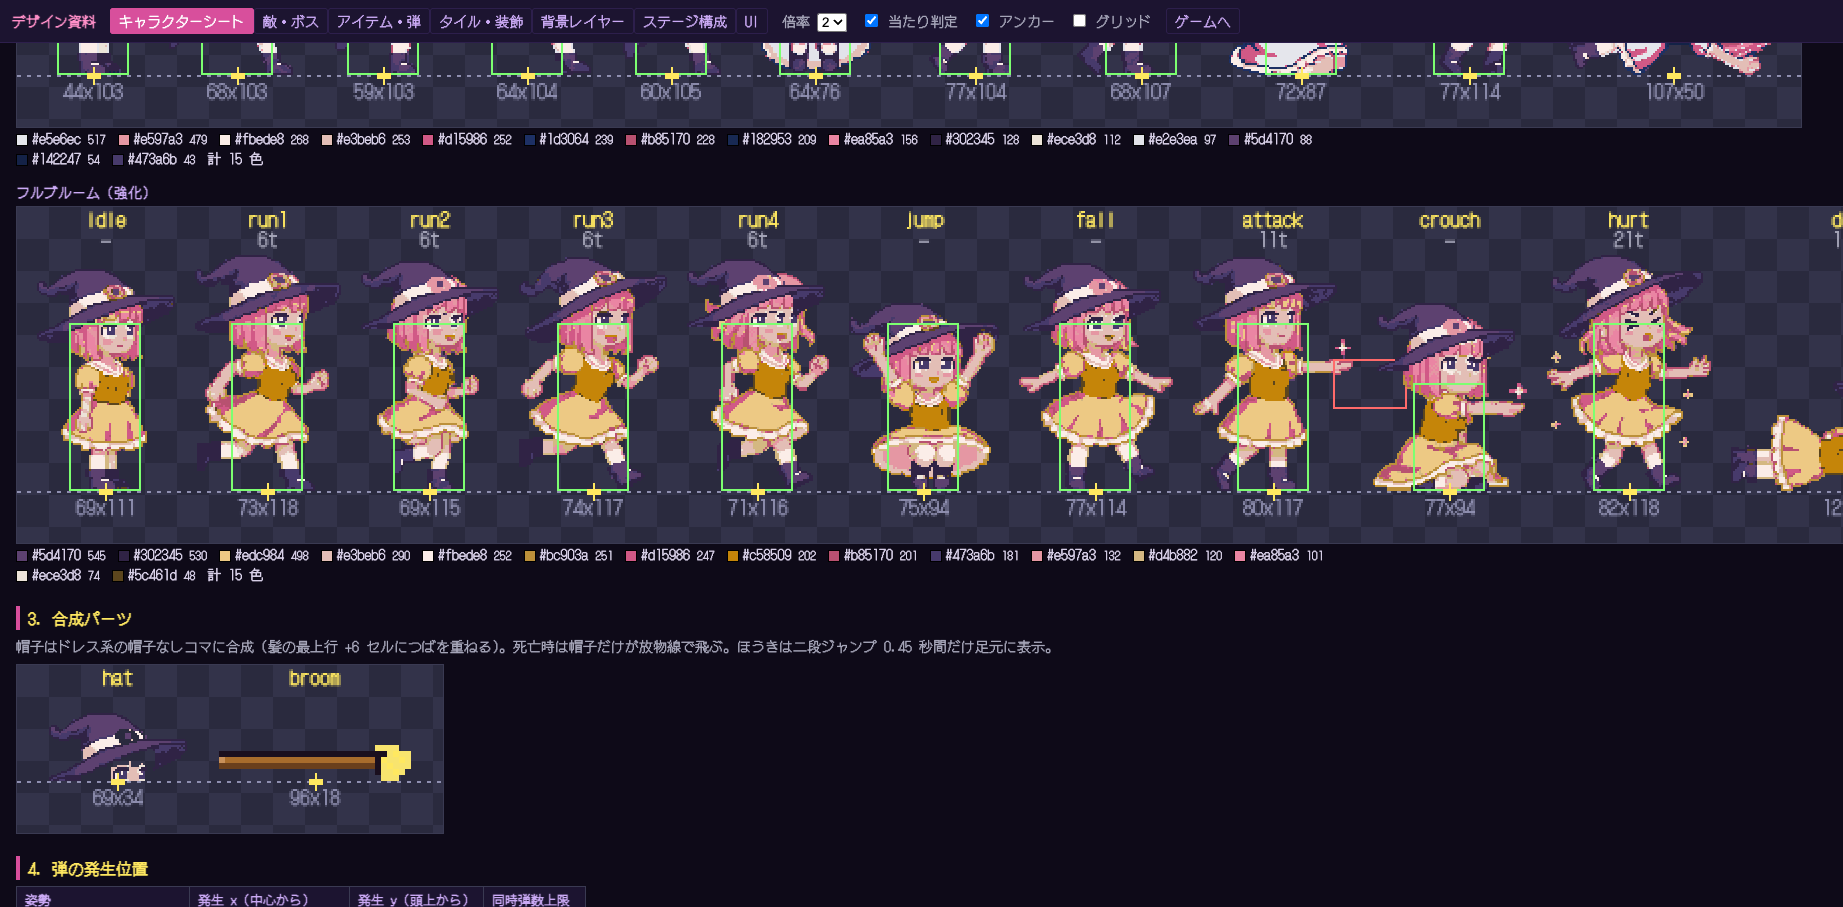
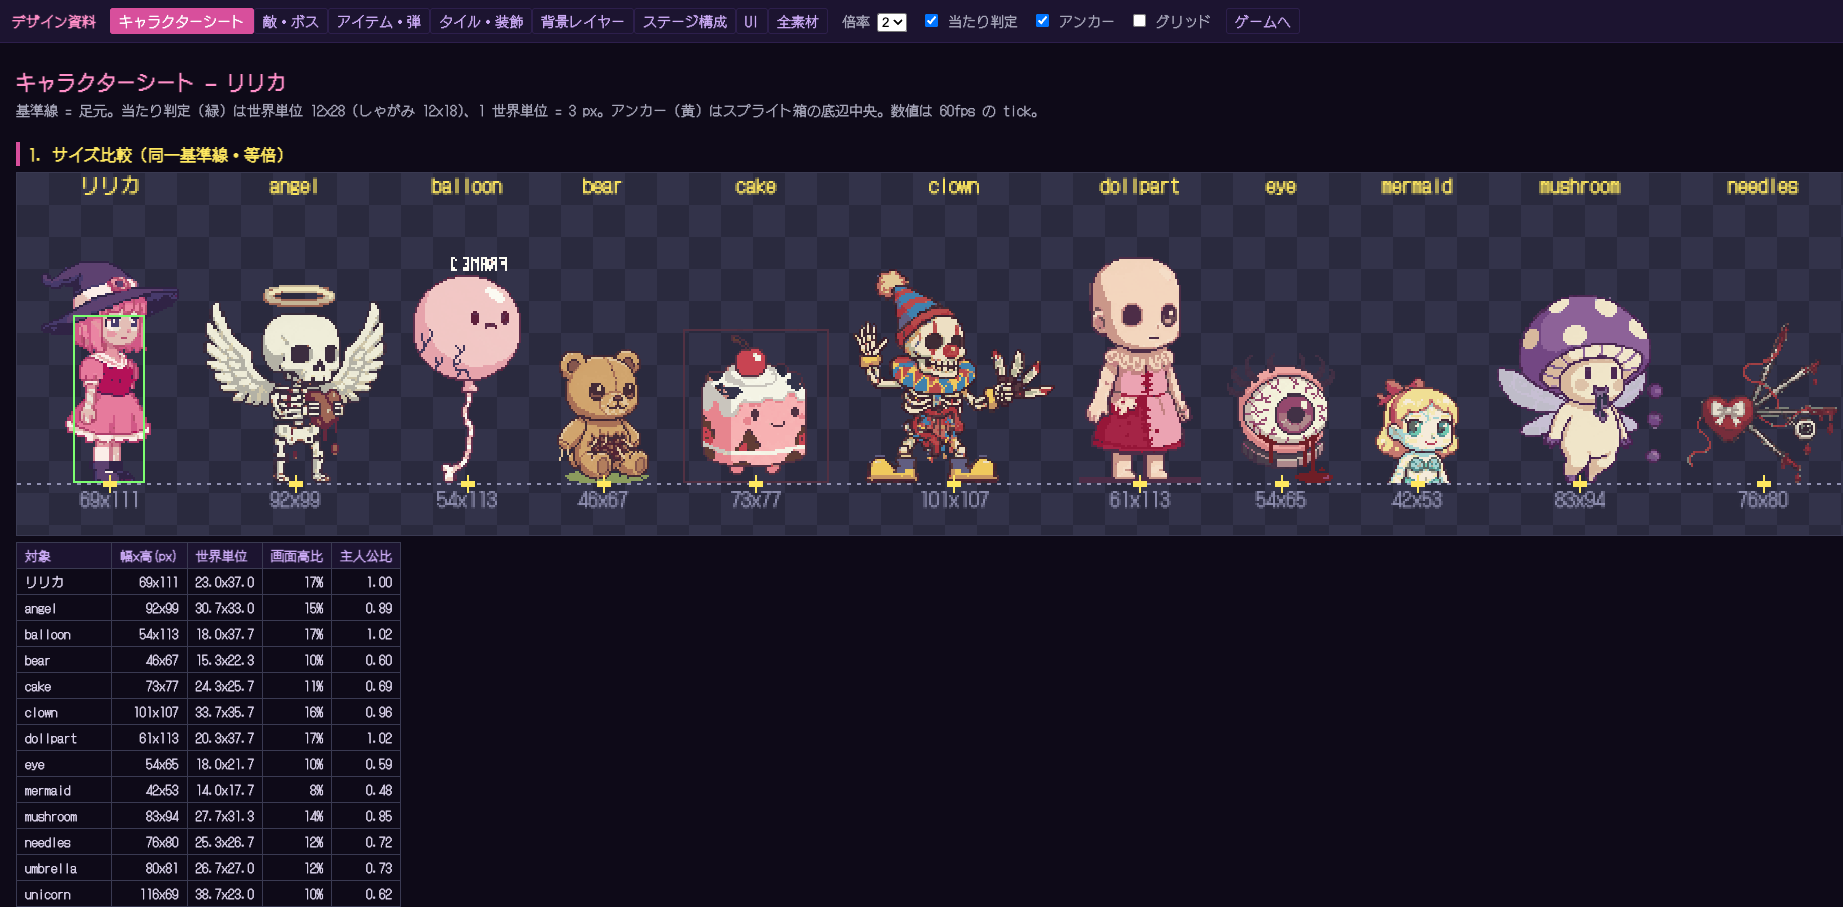
feat(catalog): manifest-driven completeness — size comparison lists every enemy/boss, deco table from shared DECO_MAP, gimmick sprite section, new '全素材' sheet; test/catalog.test.js (4) detects missing rows. Backlog IMP-016

diff --git a/src/catalog/pages/tiles.js b/src/catalog/pages/tiles.js
@@ -3,6 +3,7 @@ import { h1, h2, h3, note, table, canvas, drawRaw, rawSize, state } from '../she
 import { sliceTileStrip, renderMapLayerHD, TILE_BANDS, buildBogHD, buildSpikeHD } from '../../gfx/hdworld.js';
 import { THEMES } from '../../gfx/tiles.js';
 import { TileMap } from '../../physics.js';
+import { DECO_MAP } from '../../decomap.js';
 
 const SAMPLE = ['..........', '..===.....', '..........', '###....###', '###~~^^###', '###~~^^###'];
 
@@ -39,7 +40,17 @@ export async function render(main, A) {
   let x = 12; const base = dc.height - 20; dg.strokeStyle = '#8f8fb0'; dg.setLineDash([2, 3]); dg.beginPath(); dg.moveTo(0, base + 0.5); dg.lineTo(dc.width, base + 0.5); dg.stroke(); dg.setLineDash([]);
   for (const n of names) { const [w, h] = rawSize(D[n]); const cell = Math.max(w, 56); drawRaw(dg, D[n], x + (cell - w) / 2, base - h); if (state.anchor) { dg.fillStyle = '#ffe860'; dg.fillRect(x + cell / 2 - 3, base - 1, 7, 3); } dg.fillStyle = '#ffe860'; dg.font = '10px DotGothic16'; dg.textAlign = 'center'; dg.fillText(n, x + cell / 2, 10); dg.fillStyle = '#8f8fb0'; dg.fillText(`${w}x${h}`, x + cell / 2, base + 14); x += cell + 12; }
   main.appendChild(dc);
-  main.appendChild(table(['記号', '墓地', '菓子の森', '城'], [
-    ['t', 'tomb', 'tomb', 'banner'], ['c', 'cross', 'cross', '-'], ['f', 'flowers', 'flowers', '-'], ['v', 'candle', 'candle', 'candelabra'], ['y', 'tree', 'tree', '-'], ['x', 'blood', 'blood', 'blood'], ['o', 'bones', 'bones', 'bones'], ['k', '-', 'lollipop', '-'], ['n', '-', '-', 'pillar'], ['w', '-', '-', 'window'],
-  ]));
+  // 記号 → 装飾（テーマ別、src/decomap.js と同じ定義）
+  const themes = Object.keys(DECO_MAP), syms = [...new Set(themes.flatMap(t => Object.keys(DECO_MAP[t])))].sort();
+  main.appendChild(table(['記号', ...themes], syms.map(sy => [sy, ...themes.map(t => DECO_MAP[t][sy] ?? '-')])));
+  // ギミック小物（tiles/ 配下でテーマ名でないもの）
+  const gim = Object.keys(gen.tiles ?? {}).filter(k => !THEMES[k]).sort();
+  if (gim.length) {
+    main.appendChild(h2('ギミック小物（生成。World.drawGimmicks が使う）'));
+    main.appendChild(note('ladder: はしご L（縦にテクスチャ繰り返し） / island: 浮島 @ / plank: 崩れる板 ! / press: プレス機 %（判定は絵の寸法） / belt: ベルト ) ( / gear: 装飾 / cart: ジェットコースター R / gondola・hub: 観覧車 O'));
+    const gc = canvas(gim.reduce((a, n) => a + Math.max(rawSize(gen.tiles[n])[0], 56) + 12, 12), Math.max(...gim.map(n => rawSize(gen.tiles[n])[1])) + 40); const gg = gc.getContext('2d');
+    let gx = 12; const gbase = gc.height - 20;
+    for (const n of gim) { const [w, h] = rawSize(gen.tiles[n]); const cell = Math.max(w, 56); drawRaw(gg, gen.tiles[n], gx + (cell - w) / 2, gbase - h); gg.fillStyle = '#ffe860'; gg.font = '10px DotGothic16'; gg.textAlign = 'center'; gg.fillText(`${n} ${w}x${h}`, gx + cell / 2, gbase + 14); gx += cell + 12; }
+    main.appendChild(gc);
+  }
 }

diff --git a/test/catalog.test.js b/test/catalog.test.js
@@ -1,0 +1,36 @@
+import { test, expect } from 'vitest';
+import manifest from '../src/gfx/manifest.json';
+import { SPEC, BOSS_SPEC } from '../src/catalog/specs.js';
+import { DECO_MAP } from '../src/decomap.js';
+import { THEMES } from '../src/gfx/tiles.js';
+import { GROUP_JP } from '../src/catalog/pages/assets.js';
+import { STAGES } from '../src/levels/index.js';
+
+// カタログの掲載漏れ検査（DEBT-009）: manifest にある素材は必ずどこかの章の表に載る
+const keys = Object.keys(manifest);
+const names = g => keys.filter(k => k.startsWith(g + '/')).map(k => k.split('/')[1]);
+
+test('every enemy in the manifest has a spec row on the enemies sheet (and vice versa)', () => {
+  const enemyBases = [...new Set(names('enemies').map(n => n.replace(/(1|2|Rise)$/, '')))];
+  for (const b of enemyBases) expect(SPEC[b], `spec row for ${b}`).toBeTruthy();
+  for (const k of Object.keys(SPEC)) expect(names('enemies').includes(k + '1'), `sprite for ${k}`).toBe(true);
+});
+
+test('every boss in the manifest has a spec row (multi-part bosses by prefix)', () => {
+  const bossBases = [...new Set(names('bosses').map(n => n.replace(/_?(head)?[12]$|_body$|_tail$/, '')))];
+  for (const b of bossBases) expect(BOSS_SPEC[b], `boss spec row for ${b}`).toBeTruthy();
+  for (const k of Object.keys(BOSS_SPEC)) expect(bossBases.includes(k), `boss sprite for ${k}`).toBe(true);
+});
+
+test('every deco name referenced by the deco map exists in the manifest, and every deco sprite is referenced', () => {
+  const deco = new Set(names('deco'));
+  const referenced = new Set(Object.values(DECO_MAP).flatMap(m => Object.values(m)));
+  for (const n of referenced) expect(deco.has(n), `deco/${n}`).toBe(true);
+  for (const n of deco) expect(referenced.has(n), `deco/${n} is not placed by any theme`).toBe(true);
+});
+
+test('every stage theme has sky, far, mid and a tile strip; every manifest group is titled on the assets sheet', () => {
+  const bg = new Set(names('bg')), tiles = new Set(names('tiles'));
+  for (const st of STAGES) { for (const l of ['sky', 'far', 'mid']) expect(bg.has(`${st.theme}_${l}`), `${st.theme}_${l}`).toBe(true); expect(tiles.has(st.theme), `tiles/${st.theme}`).toBe(true); expect(THEMES[st.theme], `THEMES.${st.theme}`).toBeTruthy(); expect(DECO_MAP[st.theme], `DECO_MAP.${st.theme}`).toBeTruthy(); }
+  for (const g of new Set(keys.map(k => k.split('/')[0]))) expect(GROUP_JP[g], `group ${g}`).toBeTruthy();
+});

diff --git a/src/catalog/pages/assets.js b/src/catalog/pages/assets.js
@@ -1,0 +1,27 @@
+// 全素材一覧: manifest を機械的に列挙する（掲載漏れを作らないための網羅章）。他章は用途別の資料、本章は棚卸し
+import { h1, h2, note, table, canvas, drawRaw, rawSize } from '../sheet.js';
+import manifest from '../../gfx/manifest.json';
+
+export const GROUP_JP = { player: '主人公', enemies: '雑魚敵', bosses: 'ボス', shots: '弾・演出', items: 'アイテム', deco: '装飾', tiles: '地形帯・ギミック小物', bg: '背景層' };
+
+export async function render(main, A) {
+  main.appendChild(h1('全素材一覧（manifest）'));
+  const keys = Object.keys(manifest).sort();
+  main.appendChild(note(`${keys.length} エントリ。寸法はセル（1 セル = 1 画面 px = 1/3 世界単位）。色数は不透明色。fits は仕様箱に収まっているか。`));
+  const groups = {}; for (const k of keys) { const gname = k.split('/')[0]; (groups[gname] ??= []).push(k); }
+  for (const [gname, list] of Object.entries(groups)) {
+    main.appendChild(h2(`${GROUP_JP[gname] ?? gname}（${gname}、${list.length}）`));
+    const rows = [];
+    // サムネイル帯（1:1、横に並べる。背景層は幅が大きいので 1 枚ずつ）
+    const sprOf = k => { const [g, n] = k.split('/'); return g === 'player' ? (A.player.dress[n] ?? A.player.plain?.[n.replace(/_plain$/, '')] ?? A.player.gold?.[n.replace(/_gold$/, '')] ?? A.generated?.player?.[n]) : (A.generated?.[g]?.[n] ?? A[g]?.[n]); };
+    if (gname !== 'bg') {
+      const sizes = list.map(k => { const s = sprOf(k); return s ? rawSize(s) : [32, 32]; });
+      const cw = sizes.reduce((a, s) => a + Math.max(s[0], 56) + 10, 10), ch = Math.max(...sizes.map(s => s[1])) + 30;
+      const c = canvas(cw, ch); const g = c.getContext('2d'); g.font = '9px DotGothic16'; g.textAlign = 'center'; g.fillStyle = '#ffe860';
+      let x = 10; list.forEach((k, i) => { const s = sprOf(k); const [w, h] = sizes[i]; const cell = Math.max(w, 56); if (s) drawRaw(g, s, x + (cell - w) / 2, ch - 24 - h); g.fillText(k.split('/')[1], x + cell / 2, ch - 8); x += cell + 10; });
+      main.appendChild(c);
+    }
+    for (const k of list) { const m = manifest[k]; rows.push([k, `${m.w}x${m.h}`, m.colors ?? '-', m.fits === undefined ? '-' : m.fits ? 'OK' : 'NG', m.anchor ?? '-', m.src]); }
+    main.appendChild(table(['キー', '寸法', '色数', 'fits', 'アンカー', 'ファイル'], rows));
+  }
+}

diff --git a/src/world.js b/src/world.js
@@ -16,6 +16,7 @@ import { Fx } from './fx.js';
 import { seedGame, hashSeed } from './util.js';
 import { HD_SCALE as HD } from './gfx/sprite.js';
 import { MovingPlatform, CrumbleTile, PLATFORM, makeWheel, PressMachine } from './entities/gimmicks.js';
+import { resolveDecoMap } from './decomap.js';
 
 export const W = 256, H = 224; // 論理座標（世界単位）。実キャンバスは SCALE 倍
 export const SCALE = 3; // 内部解像度 768x672（docs/art-standard.md §2.1）。HD スプライトは 1 画面画素 = 1/3 世界単位
@@ -39,13 +40,7 @@ export class World {
       this.hdTiles = sliceTileStrip(strip.r, TILE_BANDS[this.level.theme]);
       // 装飾記号 → 生成装飾スプライト（テーマごとに割り当て）
       const D = gen.deco ?? {};
-      const decoMap = { graveyard: { t: D.tomb, c: D.cross, f: D.flowers, v: D.candle, y: D.tree, x: D.blood, o: D.bones },
-                        candyforest: { t: D.tomb, c: D.cross, f: D.flowers, v: D.candle, y: D.tree, x: D.blood, o: D.bones, k: D.lollipop },
-                        castle: { n: D.pillar, w: D.window, v: D.candelabra, x: D.blood, o: D.bones, t: D.banner },
-                        river: { y: D.willow, n: D.bridgepost, f: D.reeds, o: D.dollhead, x: D.blood, t: D.tomb },
-                        workshop: { n: D.dressform, c: D.scissors, y: D.spool, o: D.stuffing, x: D.blood, w: D.window, v: D.candelabra },
-                        park: { n: D.booth, f: D.balloons, y: D.carousel, c: D.popcorn, x: D.blood, o: D.bones } }[this.level.theme] ?? {};
-      for (const k of Object.keys(decoMap)) if (!decoMap[k]) delete decoMap[k];
+      const decoMap = resolveDecoMap(this.level.theme, D); // 記号→装飾名は src/decomap.js（カタログと共通）
       this.chunksHD = renderMapLayerHD(map, this.hdTiles, this.tiles, 512, decoMap, buildSpikeHD(THEMES[this.level.theme]));
       this.bogHD = buildBogHD(THEMES[this.level.theme]);
     }

diff --git a/src/catalog/pages/characters.js b/src/catalog/pages/characters.js
@@ -21,8 +21,9 @@ export async function render(main, A) {
   // サイズ比較
   main.appendChild(h2('1. サイズ比較（同一基準線・等倍）'));
   const cmp = [{ name: 'リリカ', spr: A.player.dress.idle, hit: HIT.stand }];
-  for (const n of ['zombie1', 'mushroom1', 'unicorn1', 'cake1', 'angel1', 'bear1', 'eye1']) if (A.enemies[n]) cmp.push({ name: n.replace(/1$/, ''), spr: A.enemies[n], left: true });
-  for (const n of ['doll1', 'teddy1', 'noir1']) if (A.bosses[n]) cmp.push({ name: n.replace(/1$/, ''), spr: A.bosses[n], left: true });
+  // manifest にある全ての雑魚（*1）とボス（*1 / *_head1）を並べる（固定リストにすると新章の敵が抜ける）
+  for (const n of Object.keys(A.enemies).filter(k => /1$/.test(k) && A.enemies[k]?.hd).sort()) cmp.push({ name: n.replace(/1$/, ''), spr: A.enemies[n], left: true });
+  for (const n of Object.keys(A.bosses).filter(k => /(^|_head)1$/.test(k) && A.bosses[k]?.hd).sort()) cmp.push({ name: n.replace(/1$/, ''), spr: A.bosses[n], left: true });
   main.appendChild(frameStrip(cmp, { gap: 12 }));
   main.appendChild(table(['対象', '幅×高(px)', '世界単位', '画面高比', '主人公比'], cmp.map(c => { const [w, h] = rawSize(c.spr); const ph = rawSize(A.player.dress.idle)[1]; return [c.name, `${w}x${h}`, `${(w / 3).toFixed(1)}x${(h / 3).toFixed(1)}`, `${(h / 672 * 100).toFixed(0)}%`, `${(h / ph).toFixed(2)}`]; })));
 

diff --git a/src/decomap.js b/src/decomap.js
@@ -1,0 +1,15 @@
+// 装飾記号 → 生成装飾スプライト名（テーマ別）。World の描画とカタログ「タイル・装飾」の表が同じ定義を使う
+export const DECO_MAP = {
+  graveyard:   { t: 'tomb', c: 'cross', f: 'flowers', v: 'candle', y: 'tree', x: 'blood', o: 'bones' },
+  candyforest: { t: 'tomb', c: 'cross', f: 'flowers', v: 'candle', y: 'tree', x: 'blood', o: 'bones', k: 'lollipop' },
+  river:       { y: 'willow', n: 'bridgepost', f: 'reeds', o: 'dollhead', x: 'blood', t: 'tomb' },
+  workshop:    { n: 'dressform', c: 'scissors', y: 'spool', o: 'stuffing', x: 'blood', w: 'window', v: 'candelabra' },
+  park:        { n: 'booth', f: 'balloons', y: 'carousel', c: 'popcorn', x: 'blood', o: 'bones' },
+  castle:      { n: 'pillar', w: 'window', v: 'candelabra', x: 'blood', o: 'bones', t: 'banner' },
+};
+// テーマの記号表をスプライト実体に解決する（無いものは落とす）
+export function resolveDecoMap(theme, D) {
+  const out = {};
+  for (const [sym, name] of Object.entries(DECO_MAP[theme] ?? {})) if (D?.[name]) out[sym] = D[name];
+  return out;
+}

diff --git a/src/catalog/index.js b/src/catalog/index.js
@@ -8,6 +8,7 @@ import * as tiles from './pages/tiles.js';
 import * as background from './pages/background.js';
 import * as stages from './pages/stages.js';
 import * as ui from './pages/ui.js';
+import * as assets from './pages/assets.js';
 
 const PAGES = [
   ['chars', 'キャラクターシート', characters],
@@ -17,6 +18,7 @@ const PAGES = [
   ['bg', '背景レイヤー', background],
   ['stages', 'ステージ構成', stages],
   ['ui', 'UI', ui],
+  ['assets', '全素材', assets],
 ];
 
 async function boot() {

diff --git a/docs/plan/08-backlog.md b/docs/plan/08-backlog.md
@@ -47,6 +47,7 @@ ID は種別＋連番。優先: P1（次スプリント）/ P2（次マイルス
 | IMP-013 | 第六章の強制スクロール区間は「走る車 `R` に乗る」代替。本来の強制スクロール（カメラ固定速度・画面外で死亡）は縦スクロール実装と合わせて設計 | P2 |
 | IMP-014 | 章の並び替え: 城を第三章へ戻し新ボス「砂糖の女王」を置く、ノワールを最終章（第八章）へ。現在は 城=最終章（`STAGES[5]`） | P1（M4） |
 | IMP-015 | デモ入力ログが 4 面分のみ（第四・五章は未収録） | P3 |
-| DEBT-009 | デザインカタログが歯抜け: 第三〜五章の敵・ボス（人魚・傘・人形・針・風船・ピエロ、大蛇・機械・観覧車の主）、ギミック小物（はしご・浮島・板・プレス・ベルト・歯車・車・ゴンドラ・軸）、溜め魔法演出、敵弾 cknife、新テーマの装飾が章に無い／固定リストで欠落。**全素材を manifest から機械的に列挙して網羅する**（ユーザー指示 2026-09-09） | P1 | 各章を manifest 駆動にし、掲載漏れをテストで検出 |
-| DEBT-010 | ゾンビうさぎの湧きコマ（`zombieRise`）が旧手描きドット絵のまま（炎は生成に置換済み）。生成 1 リクエストで置換 | P1 | `enemy-zombie-rise` spec を追加 |
+| DEBT-009 | デザインカタログが歯抜け: 第三〜五章の敵・ボス（人魚・傘・人形・針・風船・ピエロ、大蛇・機械・観覧車の主）、ギミック小物（はしご・浮島・板・プレス・ベルト・歯車・車・ゴンドラ・軸）、溜め魔法演出、敵弾 cknife、新テーマの装飾が章に無い／固定リストで欠落。**全素材を manifest から機械的に列挙して網羅する**（ユーザー指示 2026-09-09） | 済（commit 予定: サイズ比較・ボス欄・装飾表・ギミック小物を manifest/DECO_MAP 駆動に、「全素材」章を追加、`test/catalog.test.js` 4 件で掲載漏れを検出） | 各章を manifest 駆動にし、掲載漏れをテストで検出 |
+| DEBT-010 | ゾンビうさぎの湧きコマ（`zombieRise`）が旧手描きドット絵のまま（炎は生成に置換済み）。生成 1 リクエストで置換 | 済（台帳 134、57×63 セル） | `enemy-zombie-rise` spec を追加 |
+| IMP-016 | 走りながら撃つ専用コマを走りモーションと同じ 4 コマ分用意する（現在は走行中の射撃で足を止めないため上半身の射撃ポーズが出ない）。生成 2 リクエスト（2 コマ×2）＋帽子合成 | P2（ユーザー指示 2026-09-09） |
 | BUG-009 | 帽子の二重描き（原画の帽子＋実行時の別パーツ）で帽子が 7 単位浮いていた。走りコマ 3 が 1 と同じ足、キー連打で位相リセット | 済（commit 予定: 重ね描き廃止、合成位置を base_hat 実測に、run-b 再生成、runT 保持。ユーザー指摘） |

diff --git a/docs/plan/02-near-term.md b/docs/plan/02-near-term.md
@@ -71,8 +71,9 @@
 - 第五章として `STAGES[4]` に挿入（9 区間 288 タイル、観覧車 4 基、ジェットコースター 1、血のプール）。敵: 風船の亡霊（膨らんで血の雨）、ピエロ骸骨（ナイフ 2 本）。ボス: 大観覧車の主 グランギニョル（whip / heads / stomp）。ボット自走 69.6 秒でクリア、E2E は全 6 面通過（commit c03ef50）
 
 ### 積み残し TODO（ユーザー指示 2026-09-09）
-- DEBT-009 デザインカタログの完備（manifest 駆動で全素材を網羅、掲載漏れをテストで検出）
-- DEBT-010 ゾンビうさぎの湧きコマを生成に置換
+- DEBT-009 デザインカタログの完備（済: manifest 駆動 + 「全素材」章 + `test/catalog.test.js`。`logs/sprintD-catalog-*.png`）
+- DEBT-010 ゾンビうさぎの湧きコマを生成に置換（済: 台帳 134、57×63 セル）
+- IMP-016 走り撃ち専用コマ 4 枚（走りコマと対）
 
 ### Sprint C の未達（08-backlog に登録）
 - IMP-010 プレス機の絵が小さい / IMP-011 工房の遠景 B 不使用 / IMP-012 遊園地の中景に暗い地面板 / IMP-013 強制スクロールは乗り物で代替 / IMP-014 章の並び替え（城→第三章、新ボス「砂糖の女王」、ノワール→最終章） / IMP-015 デモ未収録（第四・五章）
